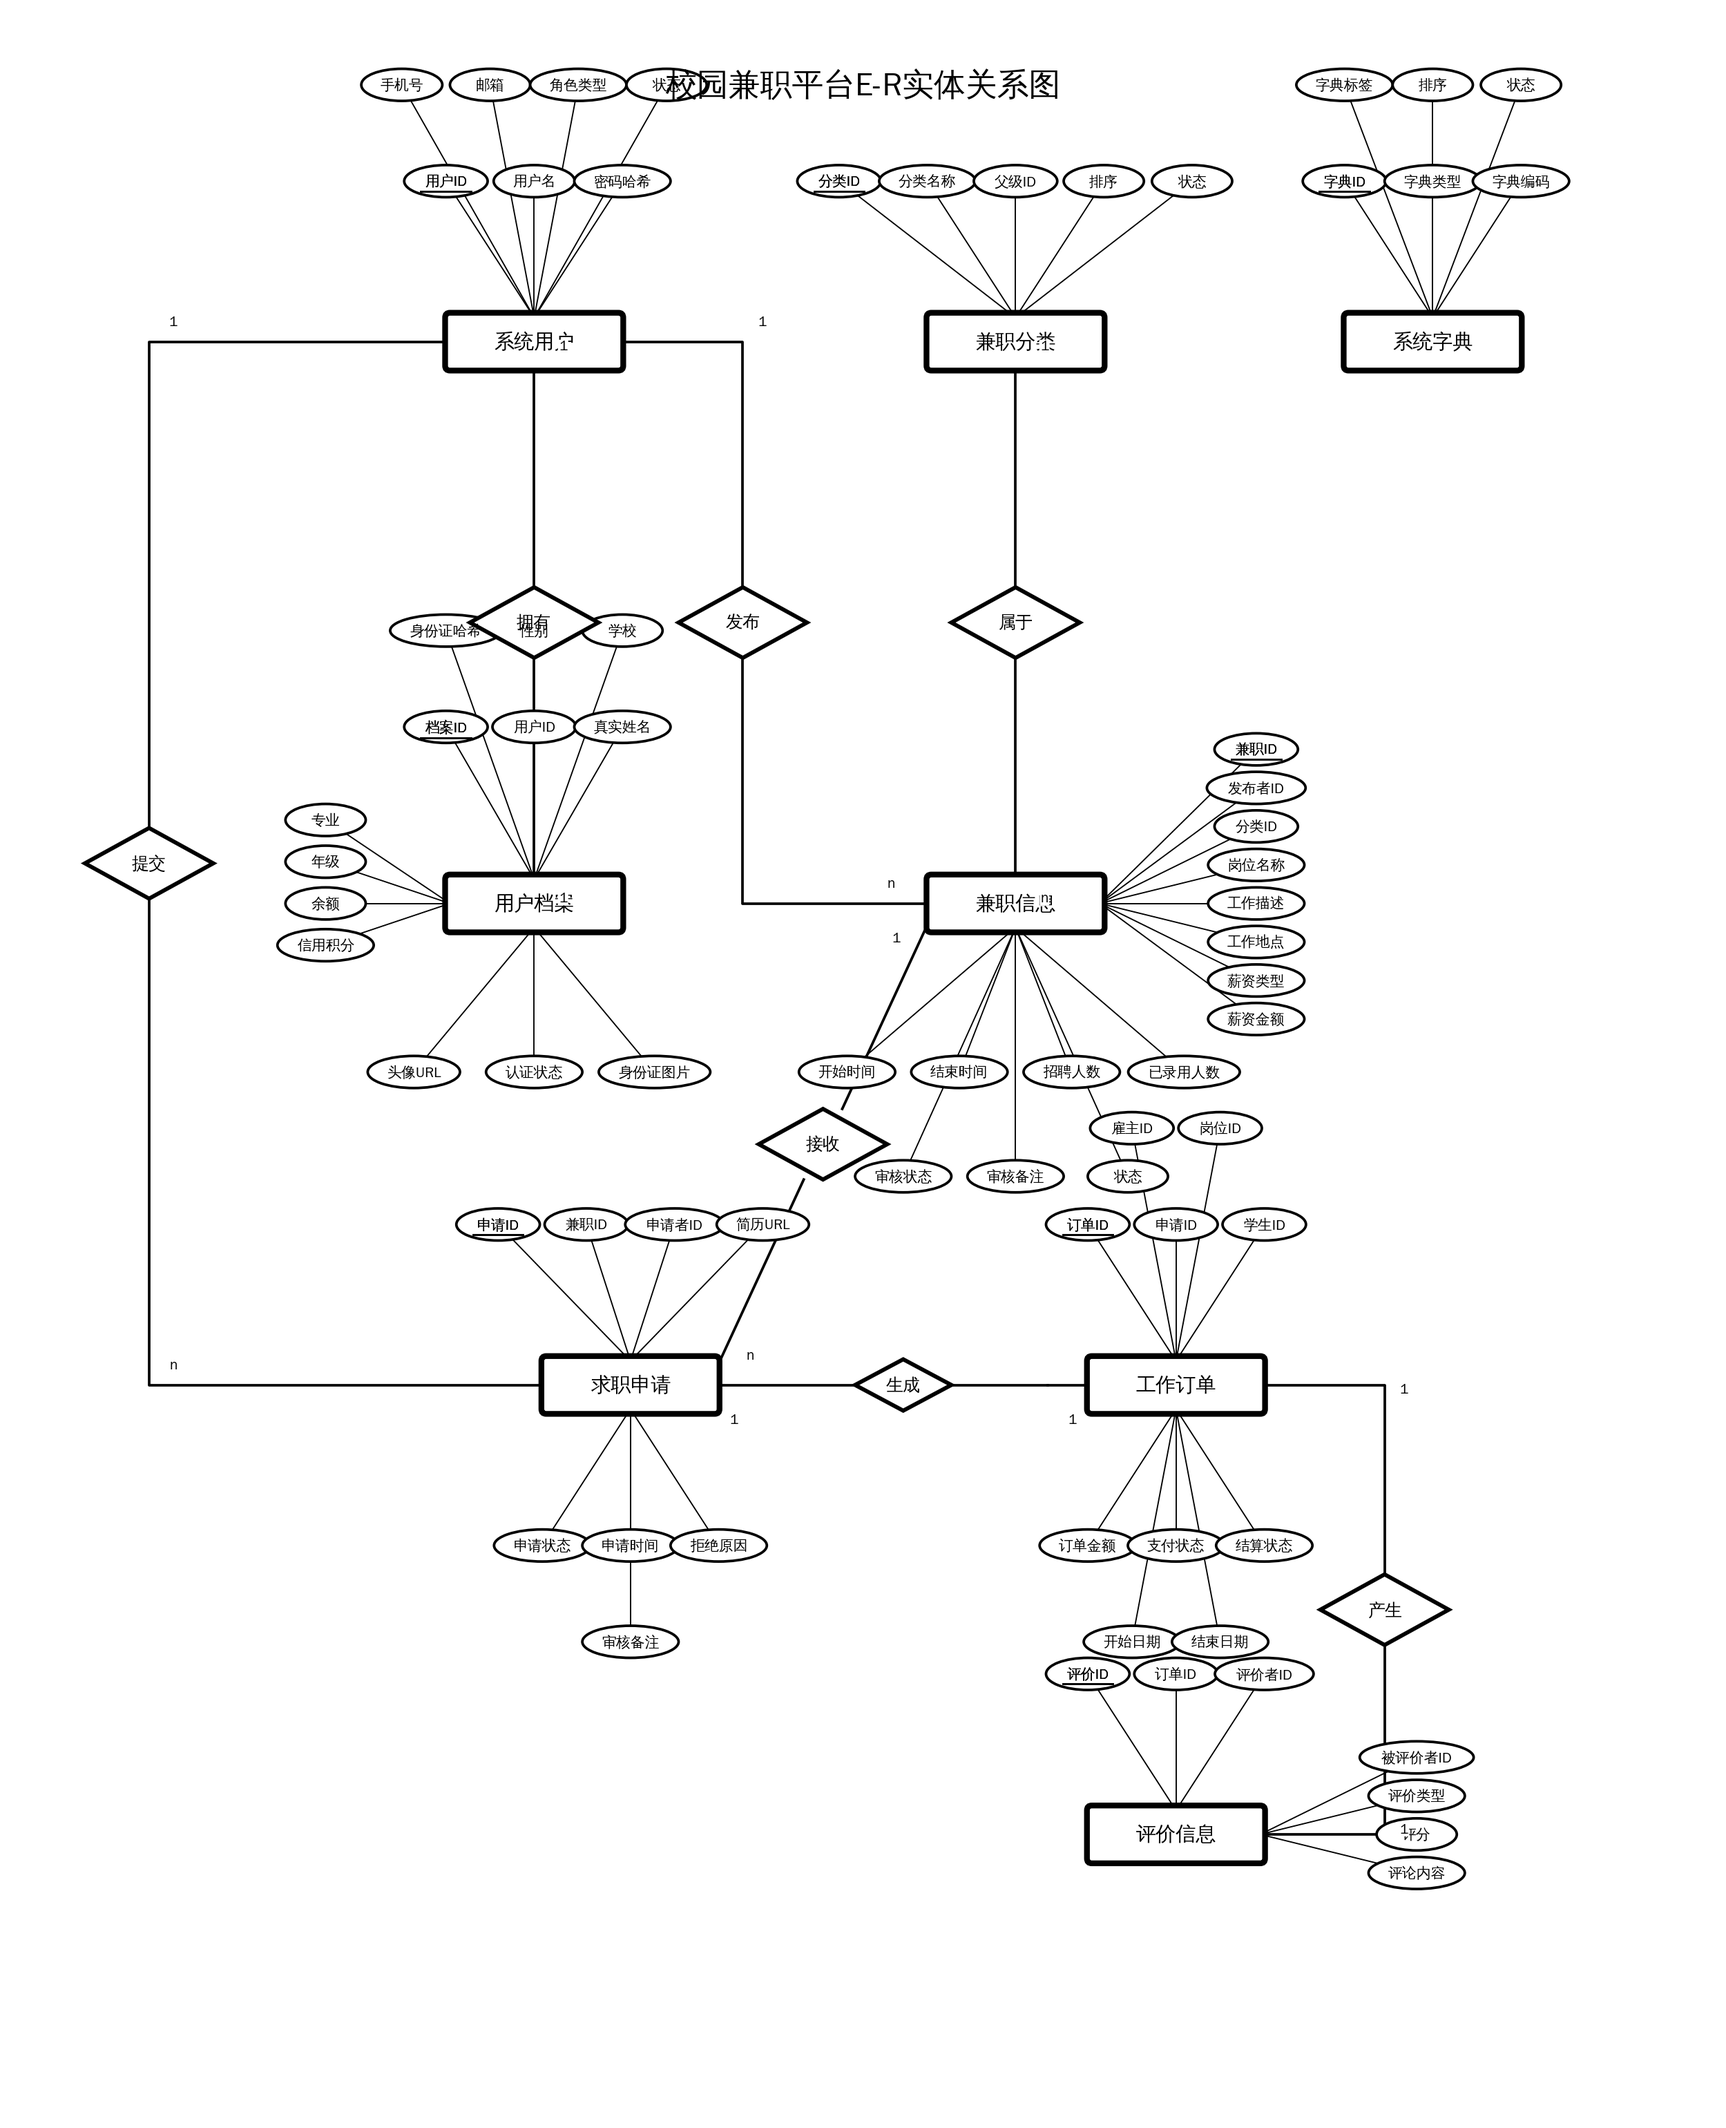
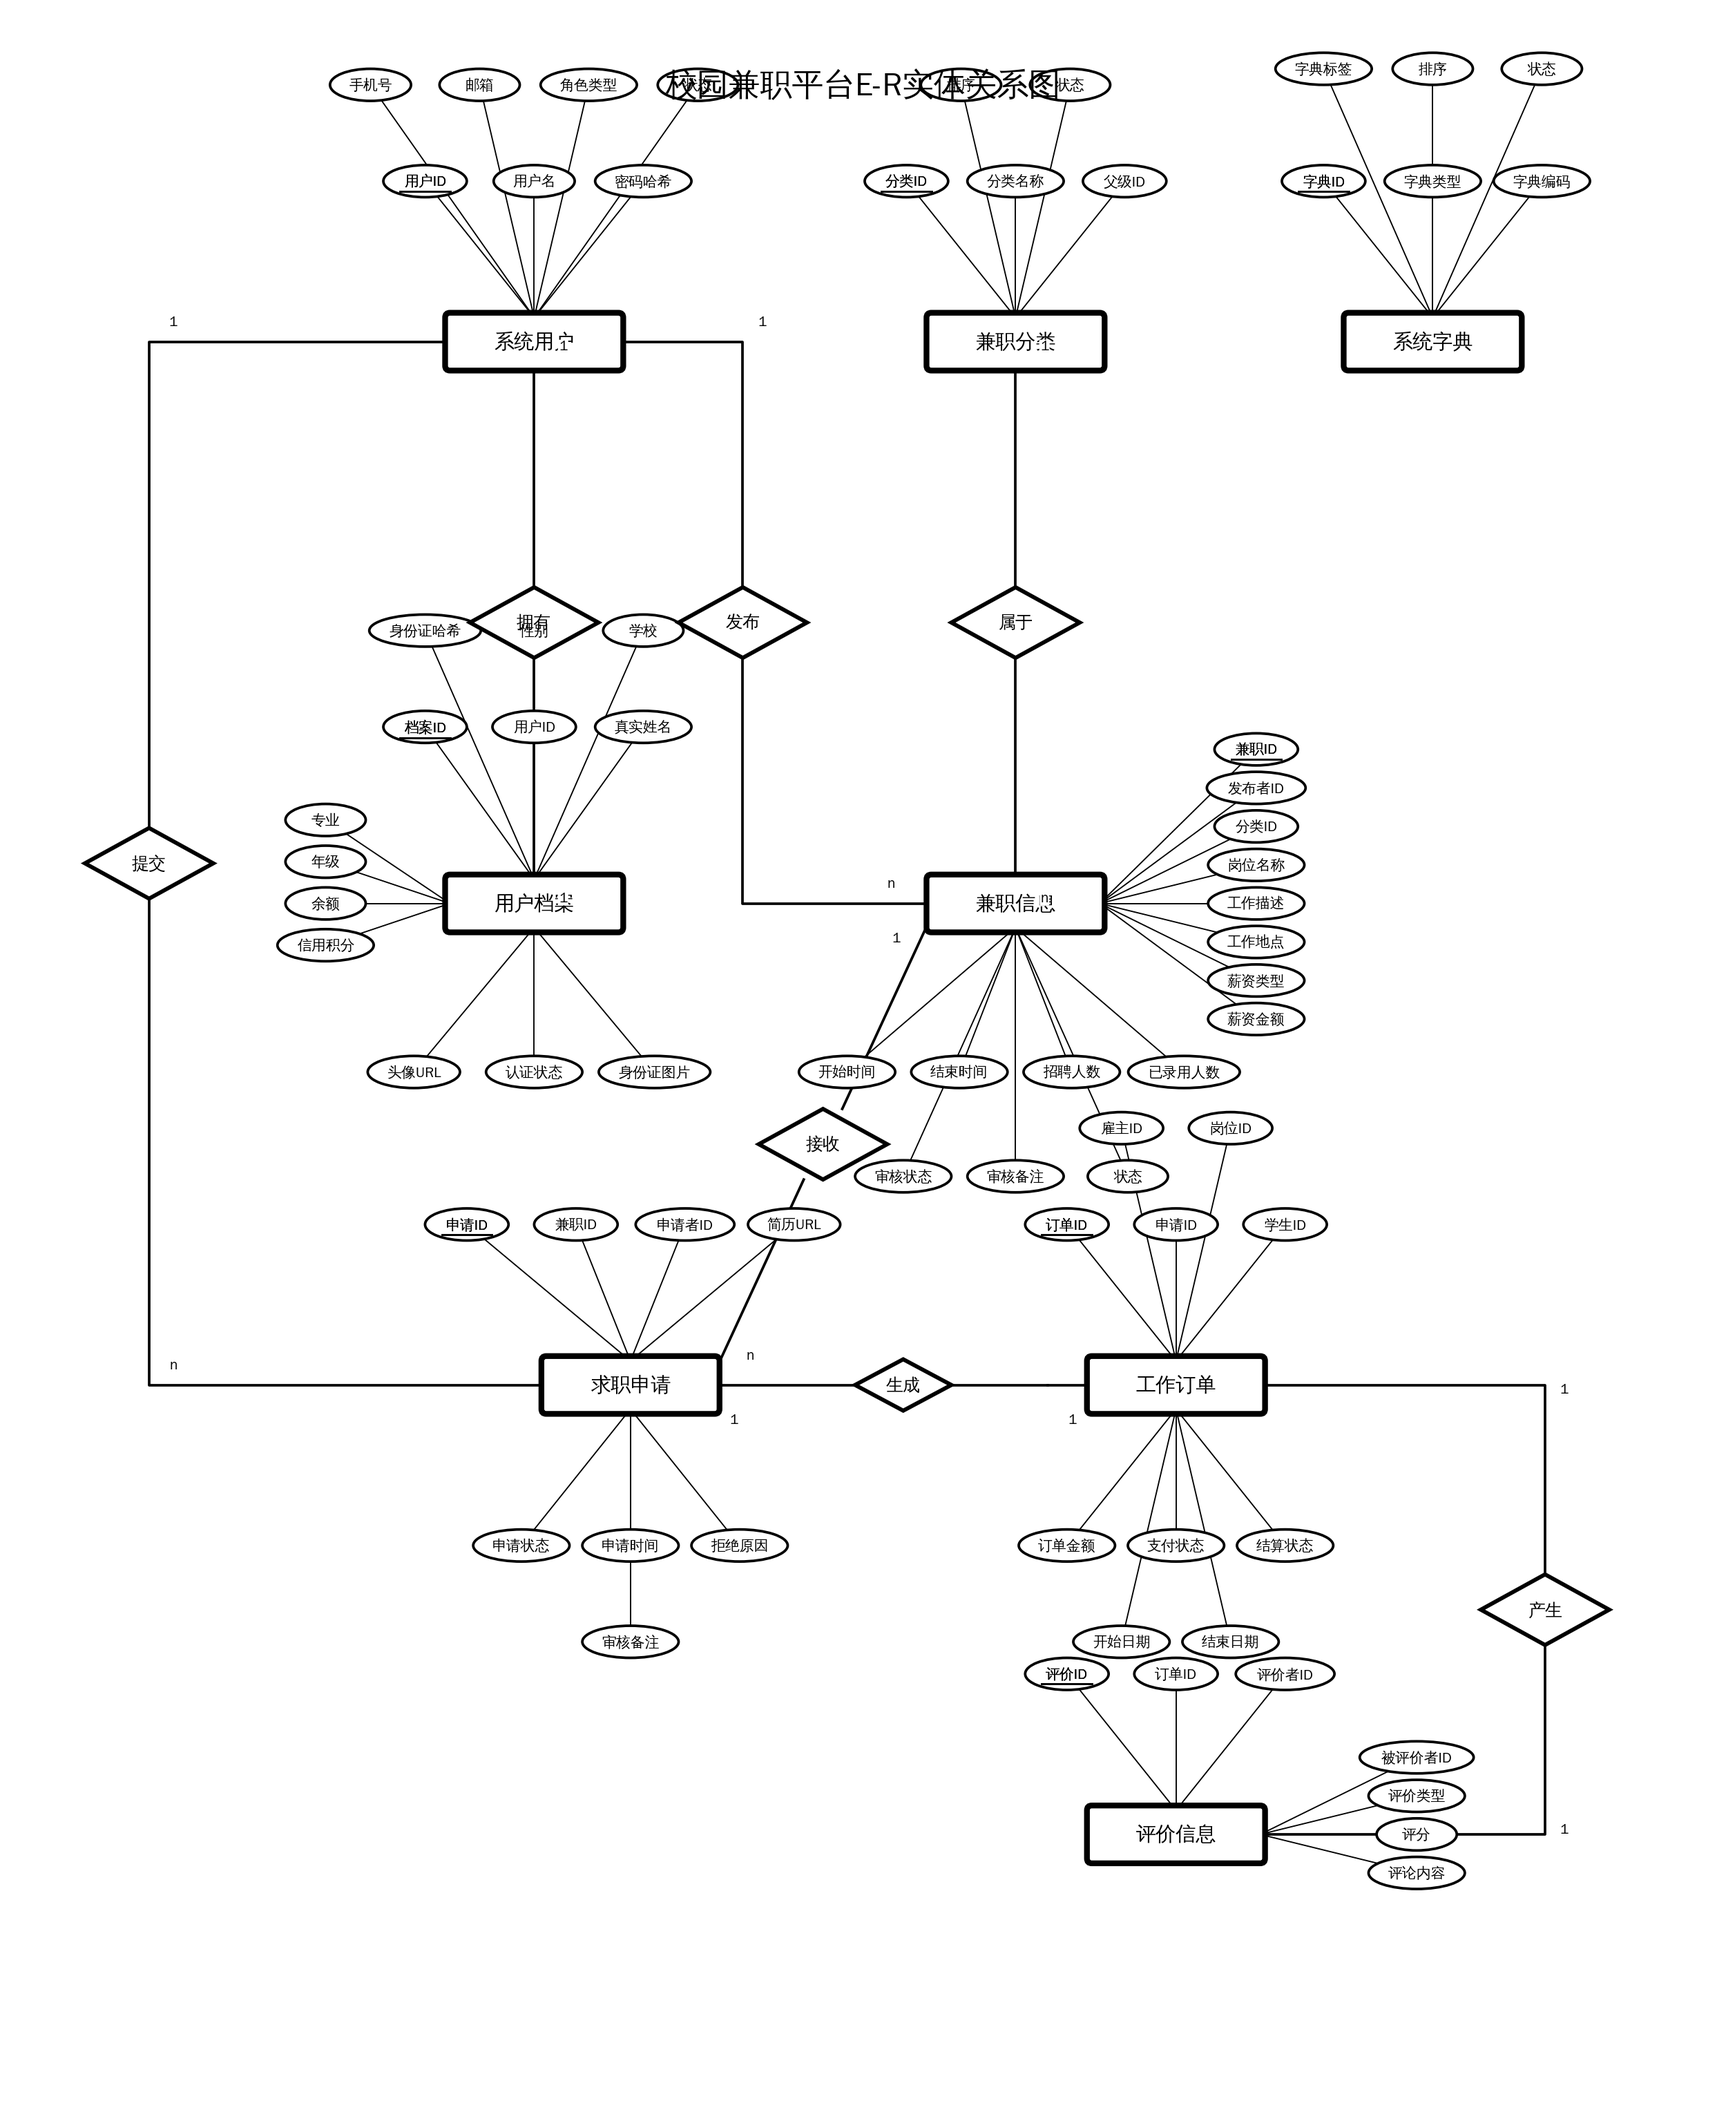
fix: 修复E-R图属性椭圆重叠问题
- SP从0.55增大到0.68，解决12处行内属性重叠
- 兼职分类从1行5属性拆分为2行(3+2)，消除跨实体冲突
- 系统字典从top-left/top-right改为top/top(2行×3)
- R7路线从x=6.5调整到x=7.5，避开评价信息右侧属性
- 添加自动化重叠验证函数
- VLM验证：8个实体均无视觉重叠

diff --git a/download/thesis_images/gen_er_diagram_full.py b/download/thesis_images/gen_er_diagram_full.py
@@ -199,7 +199,7 @@ draw_entity(EX8, EY8, '评价信息')
 #  create_time, update_time)
 # ═══════════════════════════════════════════════════════════════════════════
 
-SP = 0.55  # spacing between attribute ellipses
+SP = 0.68  # spacing between attribute ellipses (0.55→0.68 fix overlaps)
 
 # ── 系统用户 (1.2, 10.5) — 7 attrs ──────────────────────────────────
 #    TOP row 1:  用户ID(PK), 用户名, 密码哈希
@@ -210,17 +210,21 @@ attrs_row(EX1, EY1 + 1.6, EX1, EY1,
           ['手机号', '邮箱', '角色类型', '状态'], pk_index=-1, direction='top', spacing=SP)
 
 # ── 兼职分类 (4.2, 10.5) — 5 attrs ────────────────────────────────
-#    TOP:  分类ID(PK), 分类名称, 父级ID, 排序, 状态
+#    TOP row 1:  分类ID(PK), 分类名称, 父级ID
+#    TOP row 2:  排序, 状态
 attrs_row(EX2, EY2 + 1.0, EX2, EY2,
-          ['分类ID', '分类名称', '父级ID', '排序', '状态'],
+          ['分类ID', '分类名称', '父级ID'],
           pk_index=0, direction='top', spacing=SP)
+attrs_row(EX2, EY2 + 1.6, EX2, EY2,
+          ['排序', '状态'],
+          pk_index=-1, direction='top', spacing=SP)
 
 # ── 系统字典 (6.8, 10.5) — 6 attrs ────────────────────────────────
 #    TOP row 1:  字典ID(PK), 字典类型, 字典编码
 #    TOP row 2:  字典标签, 排序, 状态
 attrs_row(EX3, EY3 + 1.0, EX3, EY3,
           ['字典ID', '字典类型', '字典编码'], pk_index=0, direction='top', spacing=SP)
-attrs_row(EX3, EY3 + 1.6, EX3, EY3,
+attrs_row(EX3, EY3 + 1.7, EX3, EY3,
           ['字典标签', '排序', '状态'], pk_index=-1, direction='top', spacing=SP)
 
 # ── 用户档案 (1.2, 7.0) — 13 attrs ────────────────────────────────
@@ -375,12 +379,12 @@ routed([(3.5 + DIAM_S_HW + 0.6, EY6), (3.5 + DIAM_S_HW + 0.6, EY7), (EX7 - ENT_W
 card(EX6 + ENT_W/2 + 0.12, EY6 - 0.22, '1')
 card(EX7 - ENT_W/2 - 0.12, EY7 - 0.22, '1')
 
-# ── R7: 工作订单 → 评价信息  1:1 "产生" — vertical ────────────────
-draw_relationship(6.5, 2.6, '产生')
-routed([(EX7 + ENT_W/2, EY7), (6.5, EY7), (6.5, 2.6 + DIAM_HH)])
-routed([(6.5, 2.6 - DIAM_HH), (6.5, EY8), (EX8 + ENT_W/2, EY8)])
-card(6.62, EY7 - ENT_H/2 + 0.12, '1')
-card(6.62, EY8 + ENT_H/2 - 0.12, '1')
+# ── R7: 工作订单 → 评价信息  1:1 "产生" — via right corridor ─────
+draw_relationship(7.5, 2.6, '产生')
+routed([(EX7 + ENT_W/2, EY7), (7.5, EY7), (7.5, 2.6 + DIAM_HH)])
+routed([(7.5, 2.6 - DIAM_HH), (7.5, EY8), (EX8 + ENT_W/2, EY8)])
+card(7.62, EY7 - ENT_H/2 + 0.12, '1')
+card(7.62, EY8 + ENT_H/2 - 0.12, '1')
 
 
 # ═══════════════════════════════════════════════════════════════════════════
@@ -420,6 +424,43 @@ attr_counts = {
 }
 total = sum(attr_counts.values())
 print(f"\n=== Attribute Count Summary ===")
+
+# ═══════════════════════════════════════════════════════════════════════════
+#  Overlap verification (automated)
+# ═══════════════════════════════════════════════════════════════════════════
+def verify_no_overlaps():
+    def aw(name):
+        tw = sum(0.095 if ord(c) > 127 else 0.055 for c in name)
+        return max(tw + 0.22, 0.50)
+    rows = [
+        ['用户ID', '用户名', '密码哈希'],
+        ['手机号', '邮箱', '角色类型', '状态'],
+        ['分类ID', '分类名称', '父级ID'],
+        ['排序', '状态'],
+        ['字典ID', '字典类型', '字典编码'],
+        ['字典标签', '排序', '状态'],
+        ['档案ID', '用户ID', '真实姓名'],
+        ['身份证哈希', '性别', '学校'],
+        ['申请ID', '兼职ID', '申请者ID', '简历URL'],
+        ['申请状态', '申请时间', '拒绝原因'],
+        ['订单ID', '申请ID', '学生ID'],
+        ['雇主ID', '岗位ID'],
+        ['订单金额', '支付状态', '结算状态'],
+        ['开始日期', '结束日期'],
+        ['评价ID', '订单ID', '评价者ID'],
+    ]
+    ok = True
+    for names in rows:
+        for i in range(len(names)-1):
+            need = aw(names[i])/2 + aw(names[i+1])/2
+            if need > SP:
+                print(f'  OVERLAP: {names[i]} <-> {names[i+1]} (need={need:.3f} > SP={SP})')
+                ok = False
+    if ok:
+        print('\n=== Overlap Check: ALL CLEAR (no overlaps detected) ===')
+    else:
+        print('\n=== Overlap Check: FAILURES FOUND ===')
+verify_no_overlaps()
 for name, count in attr_counts.items():
     print(f"  {name}: {count} attributes")
 print(f"  TOTAL: {total} attributes (excluding deleted/version/create_time/update_time)")
